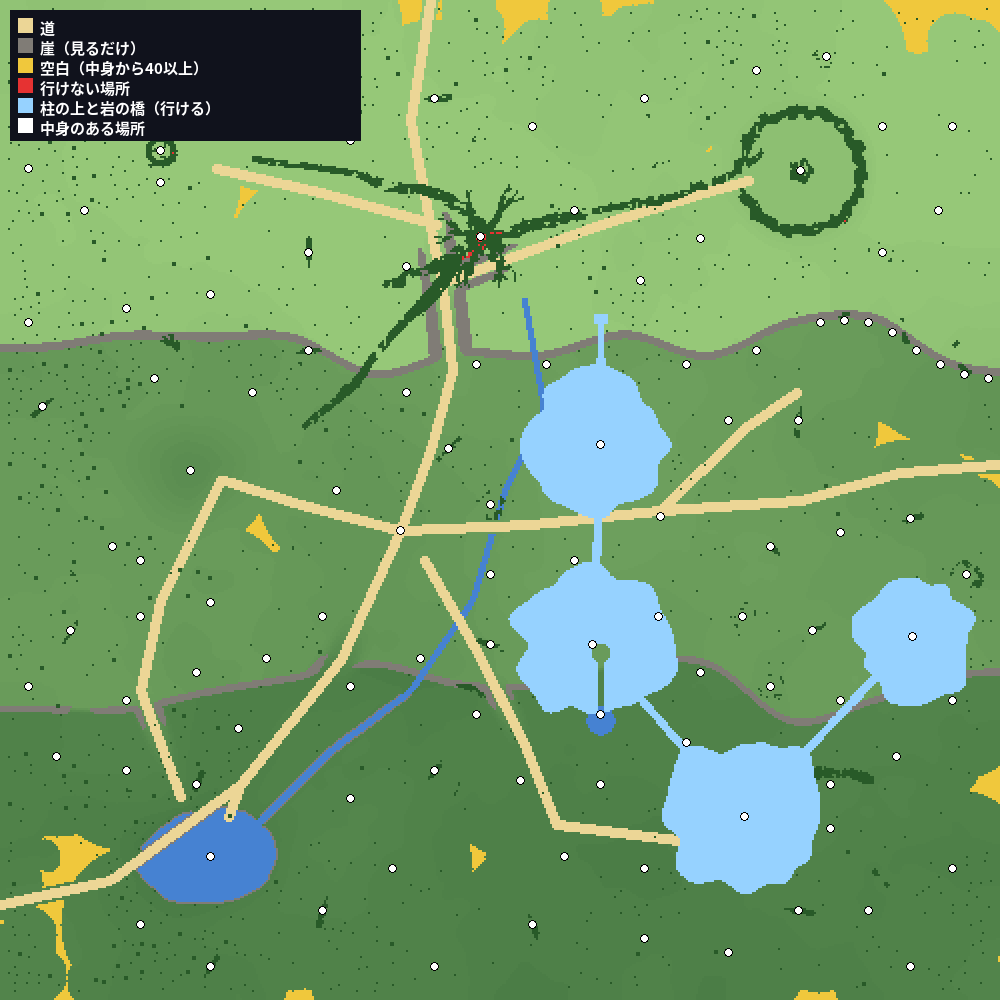
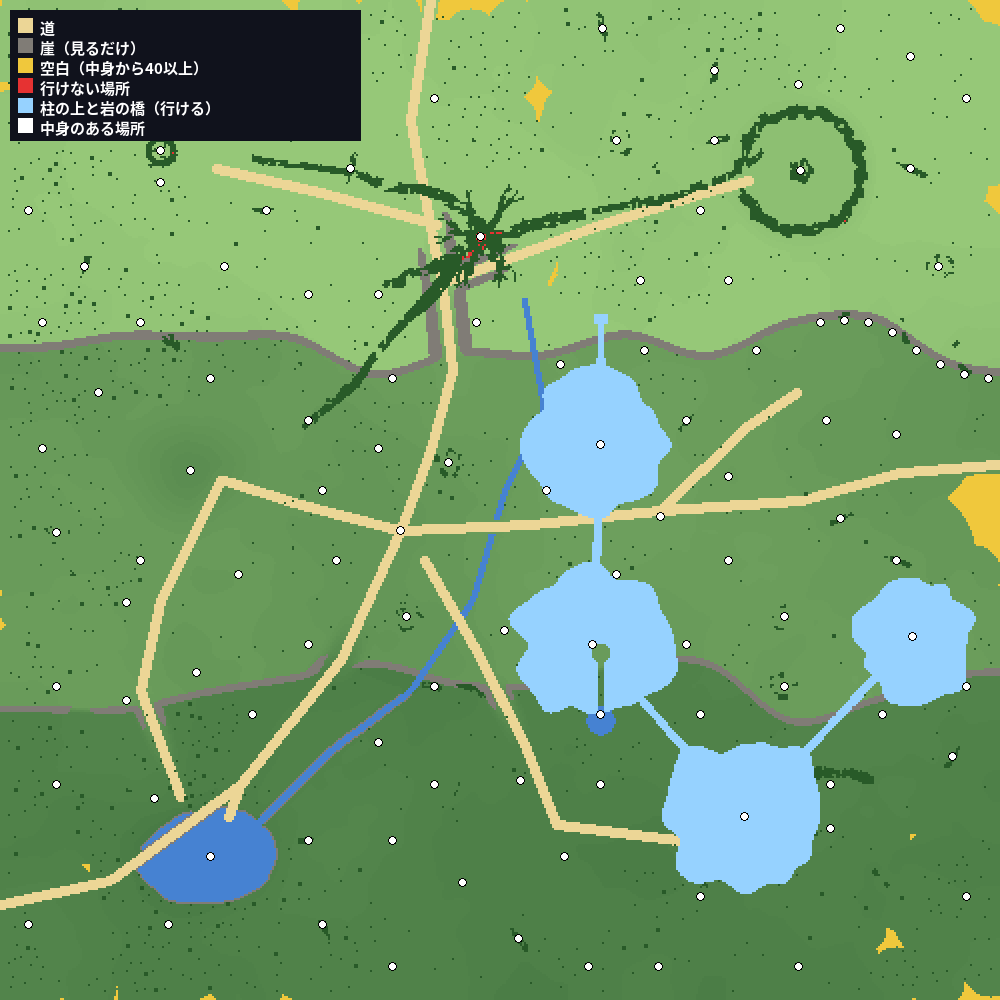
Proposals: field500 - sakura world boss arena on the highest pillar, mossy/leafy pillar rims

diff --git a/scripts/world_prototype/field500.py b/scripts/world_prototype/field500.py
@@ -400,7 +400,8 @@ for dx in range(-5, 6):
         if math.hypot(dx, dz) < 5: put(BX + dx, bg + 6, BZ + dz, "stripped_dark_oak_log", "stripped_dark_oak_log", shape="slab") if math.hypot(dx, dz) > 1 else None
 for k2 in range(6):                                               # the boss itself, rising from the stump (stand-in)
     pass
-put(BX, bg + 6, BZ, "dark_oak_log", shape="boss")
+spawn(BX, BZ, 24, 12, "lime_wool", "sprite")                        # root sprites gather around the old stump
+spawn(BX, BZ, 24, 8, "black_wool", "beetle")
 for _ in range(40):                                               # bones and broken weapons of those who came before
     a = R.random() * math.tau; r = R.uniform(10, 26)
     x, z = int(BX + math.cos(a) * r), int(BZ + math.sin(a) * r)
@@ -616,10 +617,11 @@ for x in range(B):
 
 # ---------------- Gaur-style rock pillars: narrow waists, wide overhanging grassy tops, joined by rock bridges ----------------
 UPPER = np.full((B, B), -1, np.int32)          # walkable heights above the ground layer (pillar tops, bridges)
-ROCK = ["stone", "andesite", "tuff", "stone", "andesite", "granite", "stone", "tuff"]
+ROCK = ["stone", "andesite", "stone", "tuff", "stone", "andesite"]
 
 
-def mesa(cx, cz, top_y, rb, rt, seed, needle=False):
+def mesa(cx, cz, top_y, rb, rt, seed, needle=False, sakura=False, clear=0.0):
+    LEAF = "cherry_leaves" if sakura else "oak_leaves"
     base = min(at(cx + dx, cz + dz) for dx in (-int(rb), 0, int(rb)) for dz in (-int(rb), 0, int(rb))) - 2
     Hm = top_y - base
     for y in range(base, top_y + 1):
@@ -640,36 +642,42 @@ def mesa(cx, cz, top_y, rb, rt, seed, needle=False):
                     put(x, y, z, "moss_block" if y >= top_y - 1 else ROCK[(y // 3 + seed) % len(ROCK)])
                 elif y == top_y:
                     put(x, y, z, "grass_block_top", "grass_block_side"); UPPER[z, x] = top_y
-                elif y >= top_y - 2 and d > rr - 1.2:
-                    put(x, y, z, "dirt" if y == top_y - 1 else "rooted_dirt")
+                elif y >= top_y - 3 and d > rr - 1.6:
+                    put(x, y, z, "moss_block" if y < top_y - 1 else LEAF)        # a leafy, mossy lip instead of bare dirt
                 else:
-                    mat = ROCK[(y // 3 + seed) % len(ROCK)]
-                    if noise3(x, y, z, seed + 7, 2.5) > .7: mat = "moss_block"
+                    n = noise3(x, y, z, seed + 7, 2.2)
+                    up_open = y > base + 2 and f > .45                          # the overhang's underside and the waist
+                    mat = "moss_block" if n > (.42 if up_open else .5) else ROCK[(y // 4 + seed) % len(ROCK)]
                     put(x, y, z, mat)
-    for _ in range(int(rt * 3)):                                    # vines and roots hanging from the overhang
+    for _ in range(int(rt * (10 if not needle else 2))):           # a curtain of vines and leaf drapes from the lip
         a = R.random() * math.tau
-        x, z = int(round(cx + math.cos(a) * (rt - .5))), int(round(cz + math.sin(a) * (rt - .5)))
-        for k2 in range(R.randint(3, 12)):
-            p = (x, top_y - 1 - k2, z)
-            if p in w.b and k2 > 0: break
-            if k2 > 0: put(*p, "vine", shape="shut_s")
+        out = rt * (1 + .22 * (noise3(math.cos(a) * 3 + seed, top_y * .25, math.sin(a) * 3, seed, 1.0) - .5) * 2)
+        x, z = int(round(cx + math.cos(a) * (out + .6))), int(round(cz + math.sin(a) * (out + .6)))
+        if not (0 <= x < B and 0 <= z < B): continue
+        drape = R.random() < .35
+        for k2 in range(R.randint(2, 6) if drape else R.randint(4, 18)):
+            p = (x, top_y - k2, z)
+            if p in w.b or p[1] <= at(x, z): break
+            put(*p, LEAF if drape else ("vine" if not sakura or R.random() < .5 else "cherry_leaves"), shape="full" if drape else "shut_s")
     if needle:
         mark(cx - int(rb) - 3, cz - int(rb) - 3, cx + int(rb) + 3, cz + int(rb) + 3)
         return
     for _ in range(int(rt * .55) + 1):                               # trees and bushes on top
-        a = R.random() * math.tau; rr = rt * .6 * math.sqrt(R.random())
+        a = R.random() * math.tau; rr = rt * (clear + (.7 - clear) * math.sqrt(R.random()))
         x, z = int(round(cx + math.cos(a) * rr)), int(round(cz + math.sin(a) * rr))
-        th = R.randint(4, 7)
-        for y in range(top_y + 1, top_y + th + 1): put(x, y, z, *LOG("oak_log"))
+        th = R.randint(4, 7) + (2 if sakura else 0)
+        for y in range(top_y + 1, top_y + th + 1): put(x, y, z, *LOG("cherry_log" if sakura else "oak_log"))
         for dx in range(-3, 4):
             for dz in range(-3, 4):
                 for dy in range(-2, 2):
                     if dx * dx + dz * dz + dy * dy * 2 <= 9 + R.random() * 3 and (x + dx, top_y + th + dy, z + dz) not in w.b:
-                        put(x + dx, top_y + th + dy, z + dz, "oak_leaves")
+                        put(x + dx, top_y + th + dy, z + dz, LEAF)
     for _ in range(int(rt * rt * .5)):
         a = R.random() * math.tau; rr = rt * .85 * math.sqrt(R.random())
         x, z = int(round(cx + math.cos(a) * rr)), int(round(cz + math.sin(a) * rr))
-        if (x, top_y + 1, z) not in w.b: put(x, top_y + 1, z, R.choice(["short_grass", "short_grass", "poppy", "dandelion", "fern"]), shape="plant")
+        if (x, top_y + 1, z) not in w.b:
+            if sakura: put(x, top_y + 1, z, "pink_petals", shape="carpet")
+            else: put(x, top_y + 1, z, R.choice(["short_grass", "short_grass", "poppy", "dandelion", "fern"]), shape="plant")
     mark(cx - int(rb) - 3, cz - int(rb) - 3, cx + int(rb) + 3, cz + int(rb) + 3)
 
 
@@ -705,7 +713,8 @@ def rock_bridge(p0, p1, rise=3, width=1.6):
                     put(x, deck, z, "grass_block_top", "grass_block_side"); UPPER[z, x] = max(UPPER[z, x], deck)
                     if w.b.get((x, deck + 1, z), ("", "", ""))[1] in ("vine",): w.b.pop((x, deck + 1, z), None)
                 for y in range(int(deck - under * (1 - (d / (wid + 1.2)) ** 2)), deck):
-                    if y > at(x, z): put(x, y, z, ROCK[(y // 3) % len(ROCK)] if noise3(x, y, z, 153, 2) < .7 else "moss_block")
+                    if y > at(x, z): put(x, y, z, ROCK[(y // 4) % len(ROCK)] if noise3(x, y, z, 153, 2) < .5 else "moss_block")
+                if wid < d <= wid + 1.2 and (x, deck, z) not in w.b: put(x, deck, z, "azalea_leaves" if (x + z) % 3 else "oak_leaves")
         if i % 7 == 3:
             for k2 in range(R.randint(2, 7)):
                 vx, vz = int(round(cx + R.uniform(-1, 1))), int(round(cz + R.uniform(-1, 1)))
@@ -713,13 +722,15 @@ def rock_bridge(p0, p1, rise=3, width=1.6):
                 if p not in w.b and p[1] > at(vx, vz): put(*p, "vine", shape="shut_s")
 
 
+# (the sakura arena is built right after the pillars)
 # giant pillars stepping up and away from the high plateau's edge; each top is reached by a rock bridge from the one before
 ex, ez = 300, int(B2[300]) - 7
 EDGE_Y = at(ex, ez)
 PILLARS = [(300, 222, EDGE_Y + 10, 15, 38, 3), (296, 322, EDGE_Y + 20, 16, 42, 5),
            (372, 408, EDGE_Y + 28, 17, 44, 1), (456, 318, EDGE_Y + 22, 13, 34, 7)]
-for (px, pz, ty, rb, rt, sd) in PILLARS:
-    mesa(px, pz, ty, rb, rt, sd)
+SAKURA = 2                                                          # the highest pillar is the sakura boss's arena
+for k2, (px, pz, ty, rb, rt, sd) in enumerate(PILLARS):
+    mesa(px, pz, ty, rb, rt, sd, sakura=(k2 == SAKURA), clear=(.5 if k2 == SAKURA else 0))
 
 
 def link(a, b, rise):
@@ -774,7 +785,7 @@ for (px, pz, ty, rb, rt, sd), what in zip(PILLARS, ("cairn", "herb", "treasure",
         for _ in range(10):
             put(px + R.randint(2, 8), ty + 1, pz + R.randint(-5, 5), "firefly_bush", shape="plant")
     elif what == "treasure":
-        put(px, ty + 1, pz, "barrel_top", "barrel_side"); put(px + 1, ty + 1, pz, "lantern", shape="lantern")
+        pass                                                         # the sakura arena, built below
     else:
         put(px, ty + 1, pz, "campfire_log_lit", shape="fire")
         for (dx, dz) in ((-2, 0), (2, 0), (0, 2)): put(px + dx, ty + 1, pz + dz, "spruce_log", "spruce_log", shape="slab")
@@ -812,7 +823,7 @@ def top_rocks(px, pz, ty, ore):
 TOPS = [  # sprites + herbs; beetles + sap; deer herd + iron; wolves (strong) + gold
     (PILLARS[0], [("lime_wool", "sprite", 10)], 3, None),
     (PILLARS[1], [("black_wool", "beetle", 8), ("brown_wool", "deer", 6)], 4, "iron_ore"),
-    (PILLARS[2], [("light_gray_wool", "wolf", 9), ("lime_wool", "sprite", 5)], 3, "gold_ore"),
+    (PILLARS[2], [], 0, None),
     (PILLARS[3], [("red_mushroom_block", "upright", 7)], 3, "copper_ore"),
 ]
 for (px, pz, ty, rb, rt, sd), spawns, herbs, ore in TOPS:
@@ -825,6 +836,52 @@ for (px, pz, ty, rb, rt, sd), spawns, herbs, ore in TOPS:
         a = R.random() * math.tau
         top_rocks(int(px + math.cos(a) * rt * .5), int(pz + math.sin(a) * rt * .5), ty, ore)
 
+
+
+# ---------------- world boss: the sakura on the highest pillar ----------------
+SX_, SZ_, SY_, _, SR_, _ = PILLARS[SAKURA]
+BOSS = (SX_, SZ_)
+AR = int(SR_ * .45)
+for dx in range(-AR - 2, AR + 3):                                   # arena floor: petals on moss, a stone ring at the edge
+    for dz in range(-AR - 2, AR + 3):
+        d = math.hypot(dx, dz)
+        x, z = SX_ + dx, SZ_ + dz
+        if UPPER[z, x] != SY_: continue
+        for y in range(SY_ + 1, SY_ + 4):
+            if w.b.get((x, y, z), ("", "", ""))[0] in ("plant", "carpet"): w.b.pop((x, y, z), None)
+        if d < AR:
+            put(x, SY_, z, "moss_block" if noise3(x, 0, z, 171, 3) > .55 else "grass_block_top", "grass_block_side")
+            if R.random() < .55: put(x, SY_ + 1, z, "pink_petals", shape="carpet")
+        elif d < AR + 1.5:
+            put(x, SY_, z, R.choice(["stone_bricks", "mossy_stone_bricks", "stone_bricks"]))
+for k2 in range(12):                                                # stone lanterns around the ring
+    a = k2 / 12 * math.tau
+    x, z = int(round(SX_ + math.cos(a) * (AR + 3))), int(round(SZ_ + math.sin(a) * (AR + 3)))
+    if UPPER[z, x] != SY_: continue
+    put(x, SY_ + 1, z, "stone_bricks", shape="wall"); put(x, SY_ + 2, z, "stone_bricks", shape="slab")
+    put(x, SY_ + 2, z, "lantern", shape="lantern"); put(x, SY_ + 3, z, "stone_bricks", shape="slab")
+# the great sakura at the back of the arena: thick trunk, wide pink crown that rains petals onto the floor
+GX_, GZ_ = SX_, SZ_ - AR - 6
+gtop = SY_ + 22
+tube((GX_, SY_ - 1, GZ_), (GX_ + 1, SY_ + 12, GZ_ - 1), 3.2, 2.0, mat=("cherry_log_top", "cherry_log"))
+for k2 in range(6):
+    a = k2 / 6 * math.tau + .3
+    end = (GX_ + math.cos(a) * 13, SY_ + 17 + R.randint(0, 4), GZ_ + math.sin(a) * 11)
+    tube((GX_ + 1, SY_ + 11, GZ_ - 1), end, 1.6, .8, mat=("cherry_log_top", "cherry_log"))
+    for dx in range(-7, 8):
+        for dz in range(-7, 8):
+            for dy in range(-3, 4):
+                q = (dx / 6.5) ** 2 + (dz / 6.5) ** 2 + (dy / 3.4) ** 2
+                if q <= .8 + noise3(end[0] + dx, dy, end[2] + dz, 172, 2) * .4:
+                    p = (int(end[0]) + dx, int(end[1]) + dy, int(end[2]) + dz)
+                    if p not in w.b: put(*p, "cherry_leaves")
+for (dx, dz) in ((-1, 0), (1, 1), (0, -1), (2, -1), (-2, 1)):          # root flare
+    tube((GX_, SY_ + 2, GZ_), (GX_ + dx * 5, SY_ - 1, GZ_ + dz * 5), 1.4, .7, mat=("cherry_log_top", "cherry_log"))
+for _ in range(120):                                                 # petals drifting below the crown
+    x, z = GX_ + R.randint(-18, 18), GZ_ + R.randint(-14, 20)
+    if 0 <= x < B and 0 <= z < B and UPPER[z, x] == SY_ and (x, SY_ + 1, z) not in w.b: put(x, SY_ + 1, z, "pink_petals", shape="carpet")
+put(SX_, SY_ + 1, SZ_, "pink_wool", shape="boss")                    # the sakura boss (stand-in)
+CONTENT.append((SX_, SZ_, "boss"))
 
 # great stone arches over the road where it enters and leaves the zone: scenery gates (rounded rock, nothing to stand on)
 def stone_arch(p0, p1, height, r):
@@ -865,7 +922,7 @@ for (sx, sz, h2, r2) in ((150, 470, 48, 5), (172, 452, 36, 3.5), (130, 460, 28, 
 
 
 # ---------------- main places count as content ----------------
-for p in (TREE, BOSS, FUNGAL, WOLF, TOWER, REST, BOULDERS, MEADOW, POND):
+for p in (TREE, (400, 85), FUNGAL, WOLF, TOWER, REST, BOULDERS, MEADOW, POND):
     CONTENT.append((p[0], p[1], "place"))
 for xc in range(410, 499, 12):
     CONTENT.append((xc, int(B2[xc]) + 4, "ore"))
@@ -1079,7 +1136,7 @@ for i2, (col, t2) in enumerate((((236, 214, 150), "道"), ((128, 124, 118), "崖
     dd.text((40, 16 + i2 * 20), t2, fill=(255, 255, 255), font=ff)
 mapimg.save("field500-check.png")
 
-LABELS = [((352, 300), "巨大な岩の柱と岩の橋・柱の滝（高台から渡れる）", (150, 210, 255)), ((60, 470), "岩の大アーチ（入口）", (220, 210, 190)), ((455, 290), "岩の大アーチ（出口）", (150, 210, 255)), (TREE, "大樹（根の洞＝ダンジョン入口）", (140, 230, 140)), (BOSS, "ワールドボス：根の主", (255, 90, 90)),
+LABELS = [((352, 300), "巨大な岩の柱と岩の橋・柱の滝（高台から渡れる）", (150, 210, 255)), ((60, 470), "岩の大アーチ（入口）", (220, 210, 190)), ((455, 290), "岩の大アーチ（出口）", (150, 210, 255)), (TREE, "大樹（根の洞＝ダンジョン入口）", (140, 230, 140)), ((400, 85), "狩り場：根の窪地", (255, 150, 120)), (BOSS, "ワールドボス：桜（いちばん高い柱の上）", (255, 120, 170)),
           (FUNGAL, "狩り場：キノコの窪地", (255, 150, 120)), (WOLF, "狩り場：狼の根穴", (255, 150, 120)),
           (TOWER, "狩り場＋展望：根に飲まれた石塔", (255, 150, 120)), (REST, "休憩所（転移石）", (255, 255, 255)),
           ((455, 175), "採鉱：根の割れた崖", (200, 200, 220)), (BOULDERS, "採石：岩の原", (200, 200, 200)),

diff --git a/scripts/world_prototype/field500_render.py b/scripts/world_prototype/field500_render.py
@@ -8,7 +8,7 @@ b, hi, LABELS = pickle.load(open("field500.pkl", "rb"))
 SHOTS = {"tree": (190, 100, 290, 205, 10), "boss": (352, 52, 438, 138, 10), "fungal": (40, 190, 150, 285, 10),
          "wolf": (380, 355, 450, 430, 13), "tower": (60, 45, 112, 100, 14), "cliff": (420, 120, 499, 190, 12),
          "boulders": (235, 390, 335, 465, 10), "meadow": (270, 195, 395, 305, 8), "pond": (55, 385, 165, 460, 10),
-         "rest": (165, 235, 235, 295, 14), "ramp": (120, 300, 220, 380, 9), "falls": (230, 140, 300, 220, 11), "gap": (140, 300, 230, 360, 12), "sap": (150, 190, 186, 226, 18), "arch": (240, 200, 300, 270, 12), "pillars": (230, 150, 499, 470, 5), "pillar1": (240, 270, 345, 375, 9), "top": (320, 360, 420, 460, 9), "gate": (0, 400, 80, 499, 9), "egate": (430, 180, 499, 290, 9)}
+         "rest": (165, 235, 235, 295, 14), "ramp": (120, 300, 220, 380, 9), "falls": (230, 140, 300, 220, 11), "gap": (140, 300, 230, 360, 12), "sap": (150, 190, 186, 226, 18), "arch": (240, 200, 300, 270, 12), "pillars": (230, 150, 499, 470, 5), "pillar1": (240, 270, 345, 375, 9), "top": (320, 350, 425, 465, 9), "sakura": (325, 355, 420, 450, 11), "gate": (0, 400, 80, 499, 9), "egate": (430, 180, 499, 290, 9)}
 
 
 def render(sub, W):

diff --git a/scripts/world_prototype/iso.py b/scripts/world_prototype/iso.py
@@ -5,7 +5,7 @@ import numpy as np
 
 TEX = Path(__file__).parent / "tex"
 TINT = {"grass_block_top": (124, 189, 80), "oak_leaves": (89, 150, 52), "spruce_leaves": (97, 140, 86),
-        "birch_leaves": (128, 167, 85), "dark_oak_leaves": (70, 118, 40), "fern": (100, 160, 70), "vine": (80, 140, 50), "lily_pad": (60, 150, 60), "vine": (80, 140, 50), "jungle_leaves": (70, 160, 40), "moss_carpet": (255, 255, 255),
+        "birch_leaves": (128, 167, 85), "pink_petals_stem": (255,255,255), "dark_oak_leaves": (70, 118, 40), "fern": (100, 160, 70), "vine": (80, 140, 50), "lily_pad": (60, 150, 60), "vine": (80, 140, 50), "jungle_leaves": (70, 160, 40), "moss_carpet": (255, 255, 255),
         "water_still": (63, 118, 228), "vine": (89, 150, 52), "short_grass": (124, 189, 80)}
 _cache = {}
 
